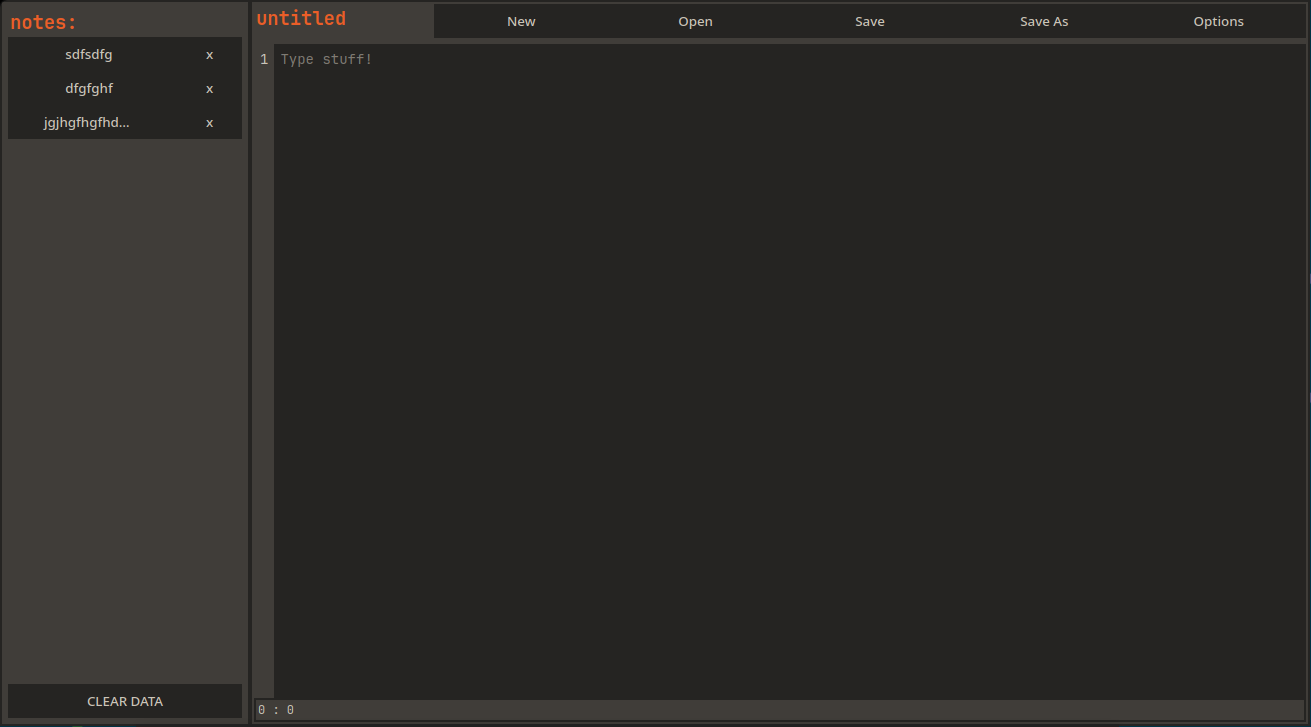
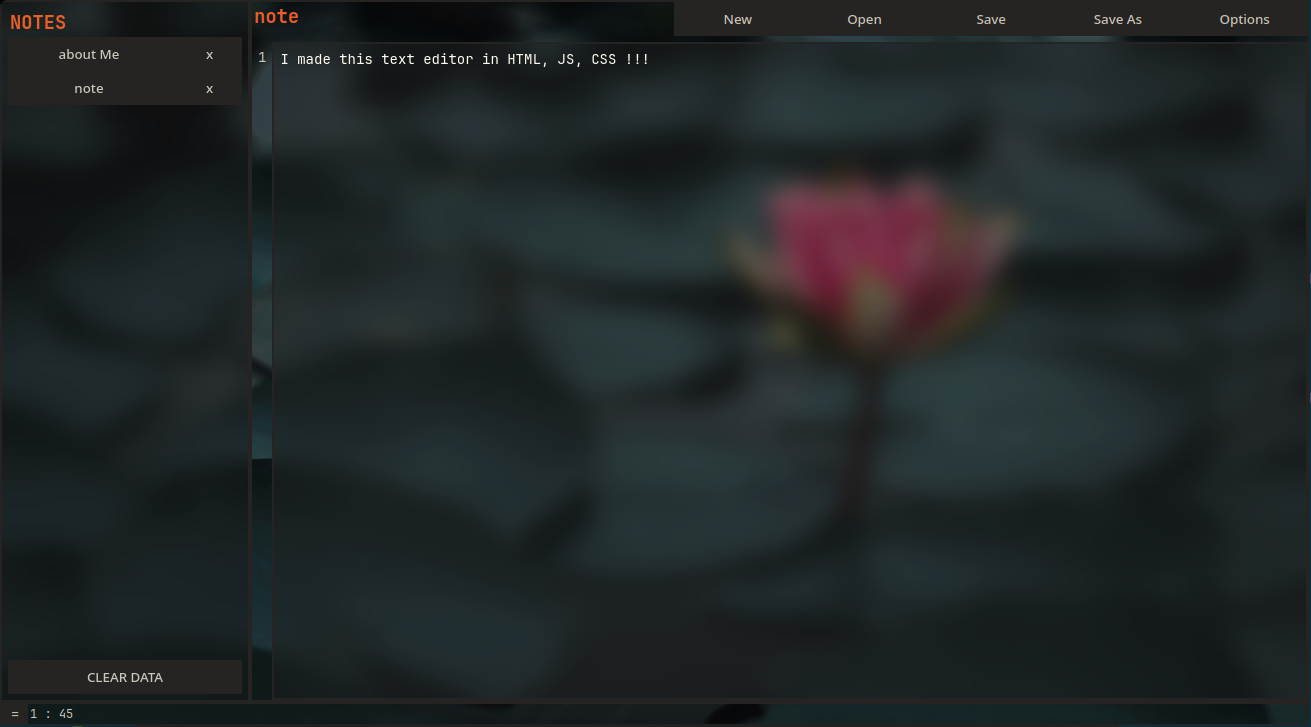
notes app version 0.1

diff --git a/notes_app/style.css b/notes_app/style.css
@@ -10,9 +10,14 @@
 }
 
 body, html{
-	background-color: var(--color-bg-subtle);
 	color: var(--color-text-subtle);
 	font-family: 'JetBrains Mono', monospace;
+	margin: 0;
+    background-image: url("lotus-bg.jpg");
+    background-size: cover;
+    background-position: center;
+    background-repeat: no-repeat;
+    background-attachment: fixed;
 
 	margin: 0;
 	padding: 0;
@@ -68,8 +73,10 @@ button:active {
 #side-bar {
 	display: flex;
 	flex-direction: column;
-	background-color: var(--color-bg-subtle);
 	border: var(--color-bg) solid 2px;
+	background: rgba(25, 25, 25, 0.45);
+    backdrop-filter: blur(12px);
+    -webkit-backdrop-filter: blur(12px);
 
 	max-width: 250px;
 	width: 250px;
@@ -113,6 +120,9 @@ button:active {
 	flex-shrink: 0;
 	padding-bottom: 6px;
 }
+#top-bar button {
+	max-width: 12%;
+}
 
 #note-name-lbl {
 	min-width: 180px;
@@ -144,13 +154,18 @@ button:active {
 	min-width: 0;
 	min-height: 0;
 	overflow-y: auto;
-	background-color: var(--color-bg);
 	color: var(--color-text-subtle);
 
 	font-size: 14px;
-	border: none;
+	border: var(--color-bg) solid 2px;
 	resize: none;
 	padding: 6px;
+
+	background: rgba(30, 30, 30, 0.45);
+    color: var(--color-text-main);
+
+    backdrop-filter: blur(12px);
+    -webkit-backdrop-filter: blur(12px);
 }
 #editor:focus {
 	color: var(--color-text-main);

diff --git a/notes_app/index.html b/notes_app/index.html
@@ -9,7 +9,7 @@
 	<div id="app">
 		<div id="main-side-container">
 		<div id="side-bar">
-			<h3>notes:</h3>
+			<h3>NOTES</h3>
 			<div id="notes-list"></div>
 			<button id="clear-data-btn">CLEAR DATA</button>
 		</div>
@@ -26,6 +26,7 @@
 				<div id="line-numbers">sdk</div>
 				<textarea
 					placeholder="Type stuff!"
+					spellcheck="false"
 					id="editor"
 				>
 				</textarea>
@@ -53,8 +54,6 @@
 <!--
 TODO:
 note not saved indicator (*)
-hamburger sidebar
-status bar
 custom pop-up to replace alert,confirm
 load the last edited/used note on startup
 note tabs